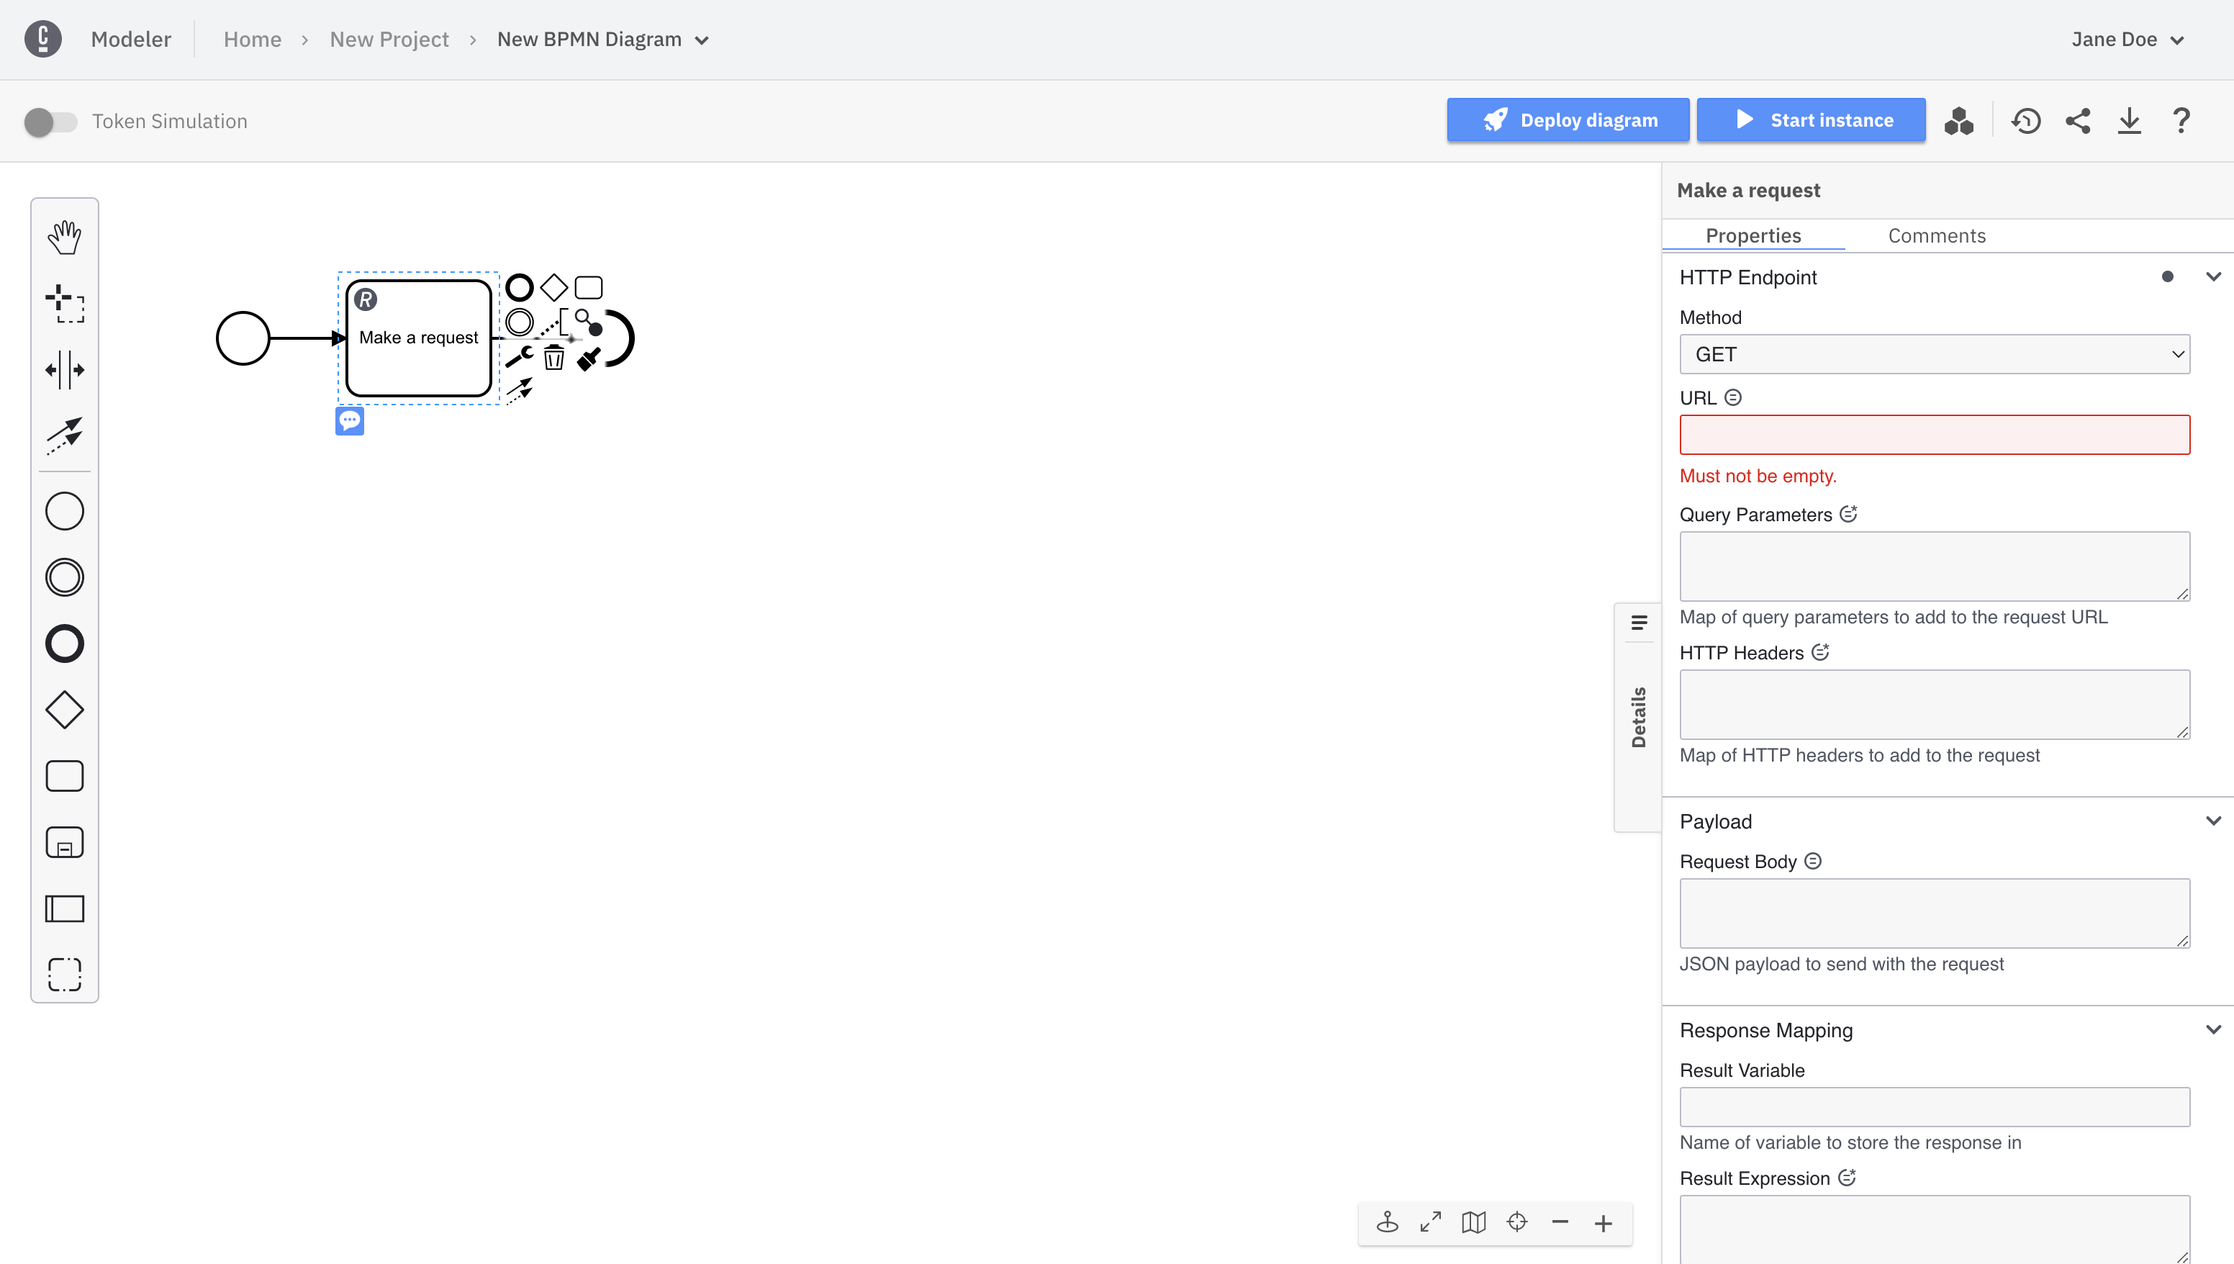
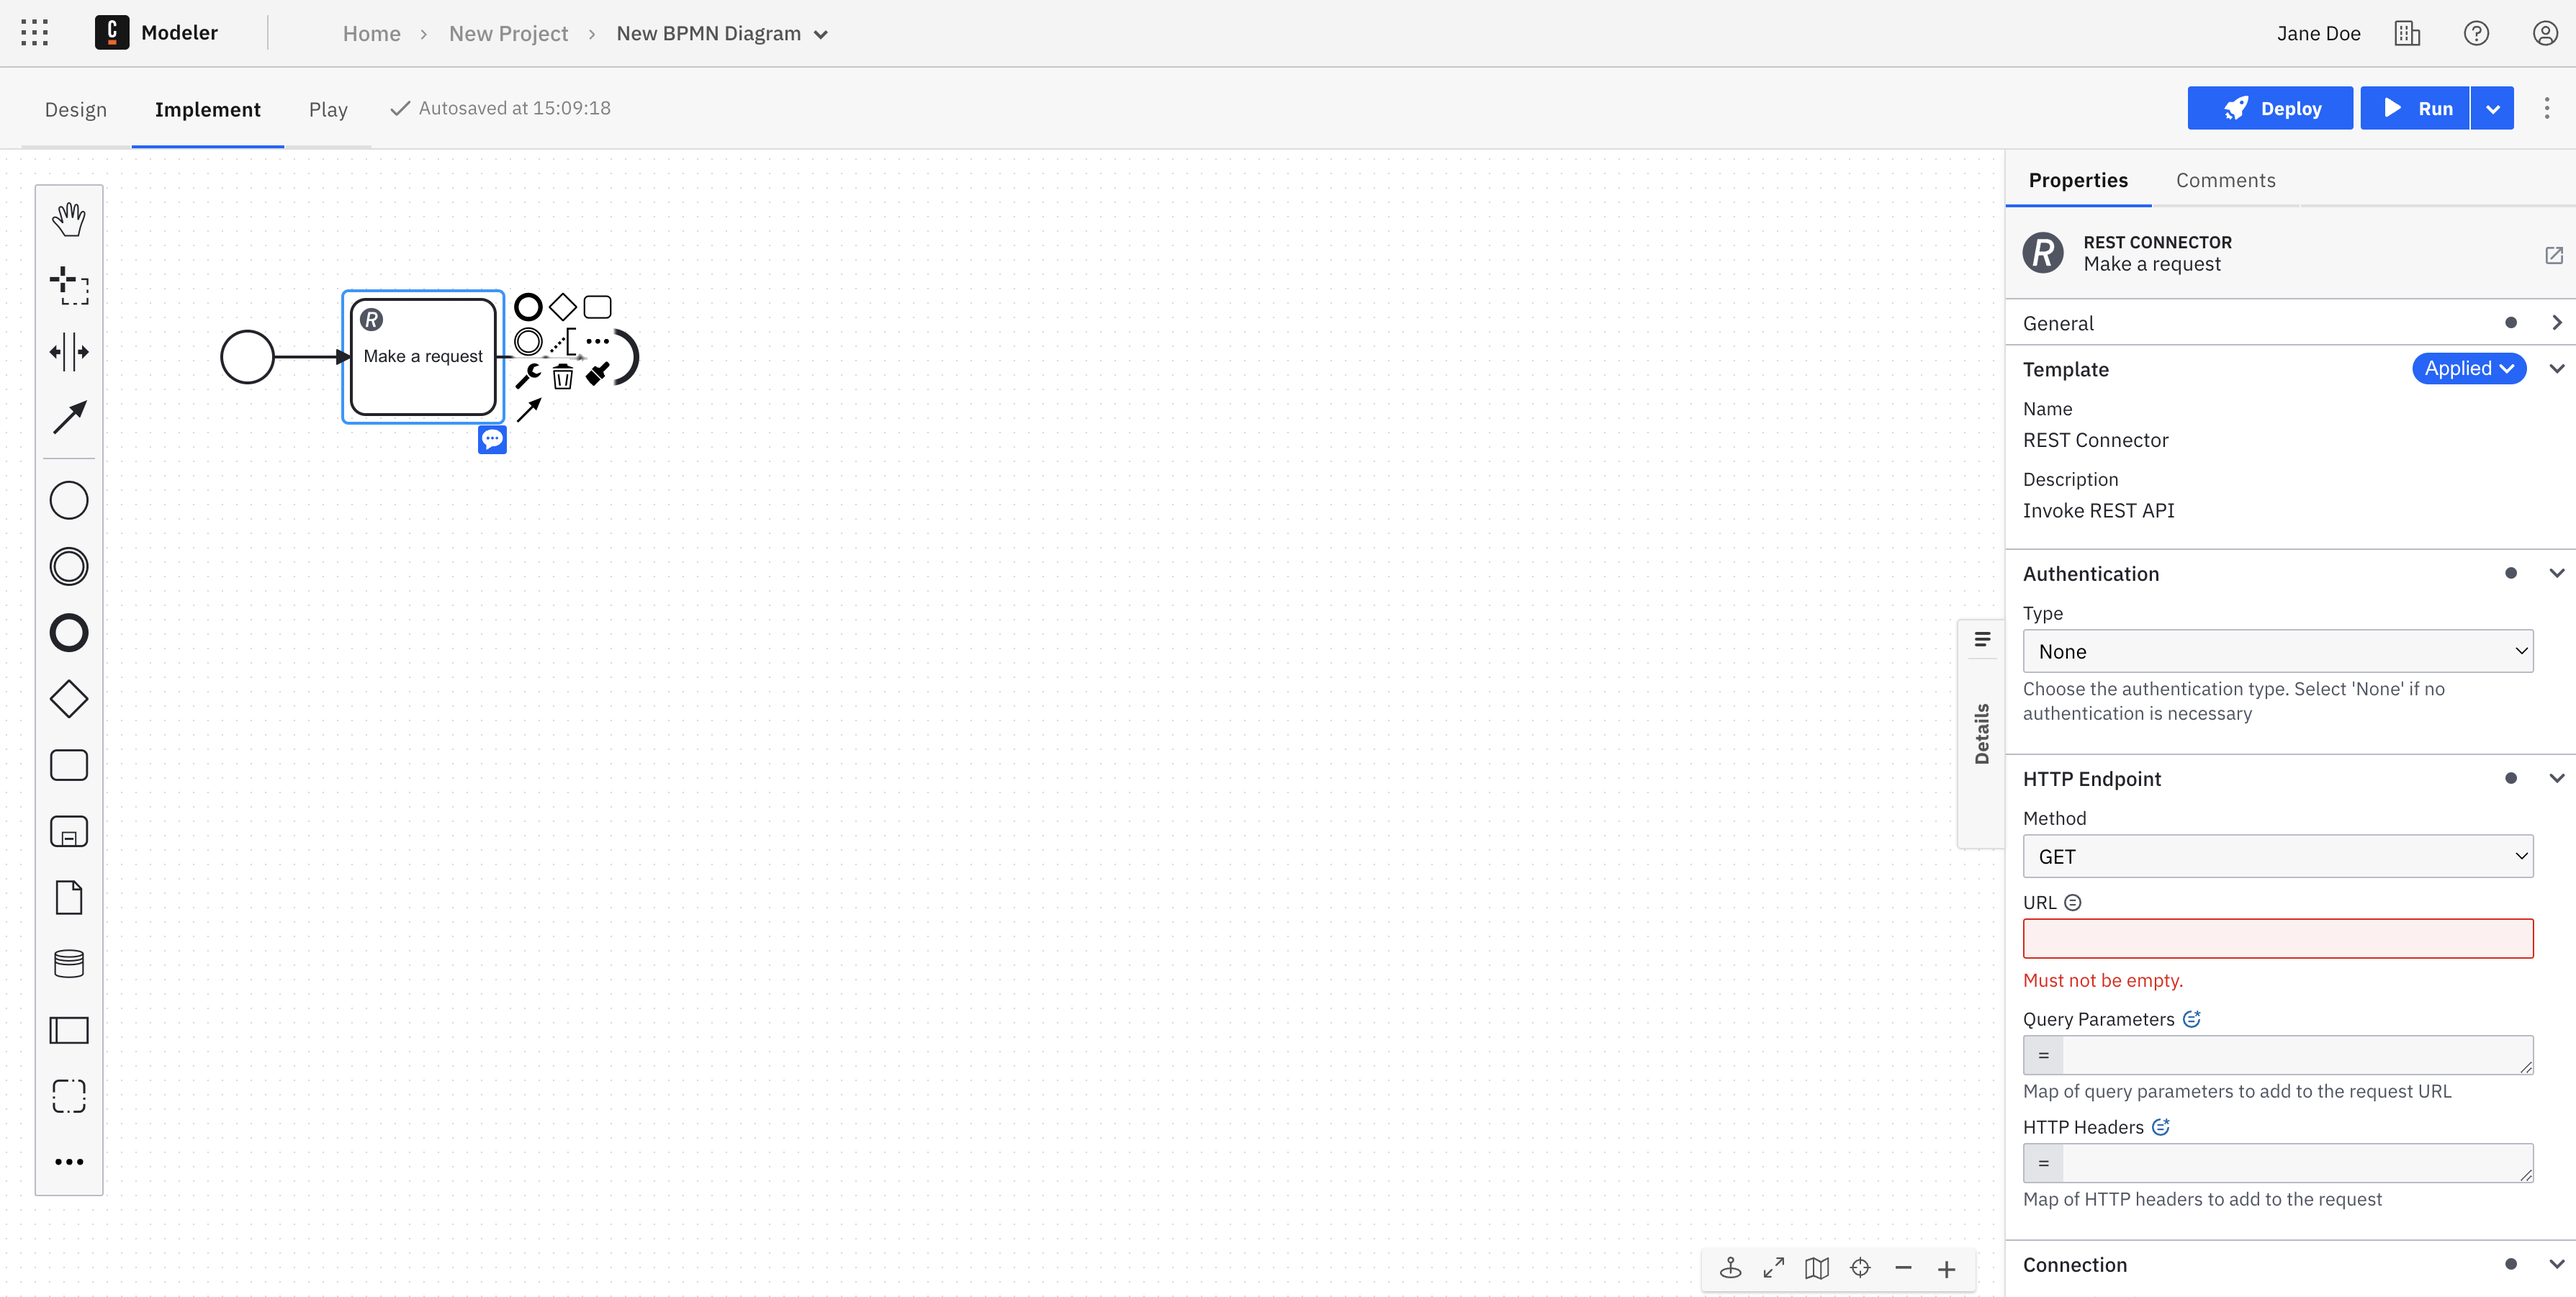
update with new REST connector

diff --git a/docs/guides/getting-started-orchestrate-api-endpoints.md b/docs/guides/getting-started-orchestrate-api-endpoints.md
@@ -20,16 +20,16 @@ To use a **REST Connector** in your process, follow the steps below:
 1. Create a BPMN diagram. To do this, navigate to Web Modeler via the **Modeler** tab, and click **New project**.
 2. Name your project and select **New > BPMN Diagram > + Create blank**.
 3. Give your model a descriptive name and id. On the right side of the page, expand the **General** section of the properties panel to find the name and id fields. For this guide, we'll use `API Endpoint Tutorial` for the name and `api-endpoint-tutorial` for the id.
-4. Use Web Modeler to design a BPMN flow with a Connector task. Create a Connector task by dragging the rectangular task element from the palette, or click the existing start event and the displayed task element to the right of the start event.
-5. Change the task type by clicking the wrench icon and select **REST Connector (No Auth)** in the **Connectors** section. Alternatively, you can directly choose a **REST Connector** by using the context pad.
+4. Use Web Modeler to design a BPMN flow with a Connector. Create a Connector by dragging the rectangular task element from the palette, or click the existing start event and the displayed task element to the right of the start event.
+5. Change the task type by clicking the wrench icon and select **REST Connector** in the **Connectors** section. Alternatively, you can directly choose a **REST Connector** by using the context pad.
 
-   ![create sendgrid connector wrench](img/connectors-rest-create-task-wrench.png)
+   ![Blank task on Web Modeler canvas with properties panel open](img/connectors-blank-task.png)
 
 6. Add a descriptive name using the **General** section in the properties panel. For this guide, we'll use `Make a request`.
 
 ## Make your REST Connector executable
 
-![rest connector red properties](img/connectors-rest-red-properties.png)
+![Connector on Web Modeler canvas with properties panel open](img/connectors-rest-red-properties.png)
 
 To make the **REST Connector** executable, fill out the mandatory **URL** field in the HTTP Endpoint section (highlighted in red) in the properties panel with `https://catfact.ninja/fact` so we can get a random cat fact from the [Cat Fact API](https://catfact.ninja/) for this example.
 
@@ -52,5 +52,5 @@ To deploy your process, take the following steps:
 
 ## Additional resources and next steps
 
-- Dive deeper into [connectors](/components/connectors/introduction.md).
+- Dive deeper into [Connectors](/components/connectors/introduction.md).
 - Learn more about Camunda Platform 8 and what it can do by reading [What is Camunda Platform 8](/components/concepts/what-is-camunda-platform-8.md) or watching our [Platform Overview video](https://bit.ly/3TjNEm7) in Camunda Academy.

diff --git a/versioned_docs/version-8.2/guides/getting-started-orchestrate-api-endpoints.md b/versioned_docs/version-8.2/guides/getting-started-orchestrate-api-endpoints.md
@@ -20,16 +20,16 @@ To use a **REST Connector** in your process, follow the steps below:
 1. Create a BPMN diagram. To do this, navigate to Web Modeler via the **Modeler** tab, and click **New project**.
 2. Name your project and select **New > BPMN Diagram > + Create blank**.
 3. Give your model a descriptive name and id. On the right side of the page, expand the **General** section of the properties panel to find the name and id fields. For this guide, we'll use `API Endpoint Tutorial` for the name and `api-endpoint-tutorial` for the id.
-4. Use Web Modeler to design a BPMN flow with a Connector task. Create a Connector task by dragging the rectangular task element from the palette, or click the existing start event and the displayed task element to the right of the start event.
-5. Change the task type by clicking the wrench icon and select **REST Connector (No Auth)** in the **Connectors** section. Alternatively, you can directly choose a **REST Connector** by using the context pad.
+4. Use Web Modeler to design a BPMN flow with a Connector. Create a Connector by dragging the rectangular task element from the palette, or click the existing start event and the displayed task element to the right of the start event.
+5. Change the task type by clicking the wrench icon and select **REST Connector** in the **Connectors** section. Alternatively, you can directly choose a **REST Connector** by using the context pad.
 
-   ![create sendgrid connector wrench](img/connectors-rest-create-task-wrench.png)
+   ![Blank task on Web Modeler canvas with properties panel open](img/connectors-blank-task.png)
 
 6. Add a descriptive name using the **General** section in the properties panel. For this guide, we'll use `Make a request`.
 
 ## Make your REST Connector executable
 
-![rest connector red properties](img/connectors-rest-red-properties.png)
+![Connector on Web Modeler canvas with properties panel open](img/connectors-rest-red-properties.png)
 
 To make the **REST Connector** executable, fill out the mandatory **URL** field in the HTTP Endpoint section (highlighted in red) in the properties panel with `https://catfact.ninja/fact` so we can get a random cat fact from the [Cat Fact API](https://catfact.ninja/) for this example.
 
@@ -52,5 +52,5 @@ To deploy your process, take the following steps:
 
 ## Additional resources and next steps
 
-- Dive deeper into [connectors](/components/connectors/introduction.md).
+- Dive deeper into [Connectors](/components/connectors/introduction.md).
 - Learn more about Camunda Platform 8 and what it can do by reading [What is Camunda Platform 8](/components/concepts/what-is-camunda-platform-8.md) or watching our [Platform Overview video](https://bit.ly/3TjNEm7) in Camunda Academy.
